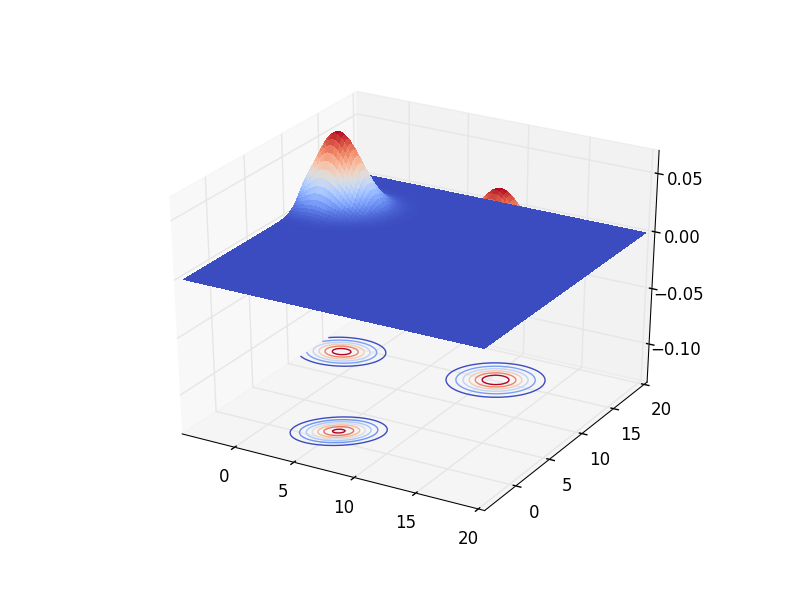
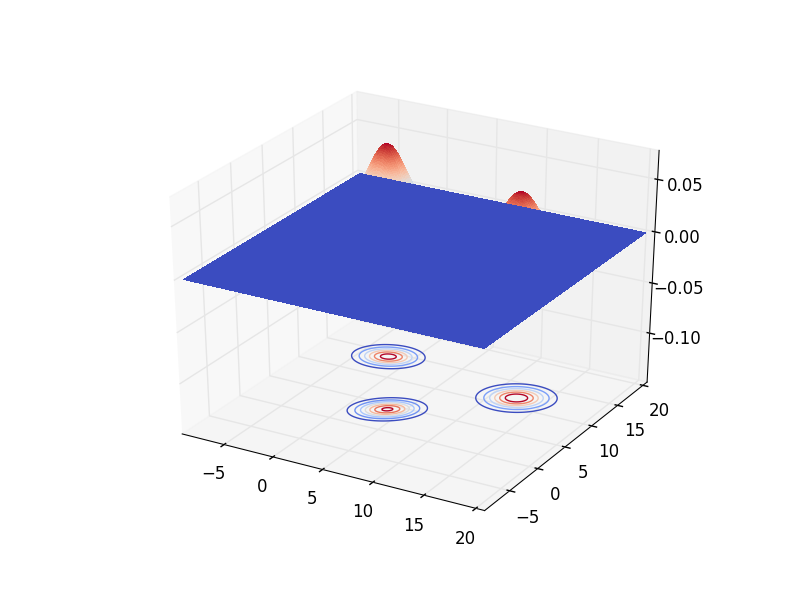
Latest working code

diff --git a/assignment-2/ls/scripts/plot_pdf.py b/assignment-2/ls/scripts/plot_pdf.py
@@ -6,46 +6,34 @@ import numpy as np
 from scipy.stats import multivariate_normal
 
 def plotPDF(mus, covs, plot):
-    xmin = int(min([mus[label][0] for label in [0, 1, 2]]))
-    xmax = int(max([mus[label][0] for label in [0, 1, 2]]))
-    ymin = int(min([mus[label][1] for label in [0, 1, 2]]))
-    ymax = int(max([mus[label][1] for label in [0, 1, 2]]))
-    '''
-    # Generate the underlying x-y grid
-    x, y = np.mgrid[int(mu[0]) - 5 : int(mu[0]) + 5:100j, int(mu[1]) - 5 : int(mu[1]) + 5 : 500j]
-    # Generate tuples (x, y) : X x Y
-    xy = np.column_stack([x.flat, y.flat])
-    '''
-    # Generate the underlying x-y grid
-    x, y = np.mgrid[ymin - 7 : ymax + 7 : 100j, ymin - 7 : ymax + 7 : 100j]
-    # Generate tuples (x, y) : X x Y
-    xy = np.column_stack([x.flat, y.flat])
-    base = np.zeros_like(x)
-    # Base plot 
     fig = plt.figure(1)
     ax = fig.gca(projection = '3d')
-    ax.plot_surface(x, y, base, rstride = 1, cstride = 1, cmap=cm.coolwarm, linewidth = 0, antialiased=False)
 
+    # Compute the gaussian for each class
+    xs, ys, zs = [], [], []
     for label in [0, 1, 2]:
         mu, cov = mus[label], covs[label]
+        x, y = np.mgrid[mu[0] - 5 : mu[0] + 5 : 100j, mu[1] - 5 : mu[1] + 5 : 100j]
+        xy = np.column_stack([x.flat, y.flat])
         # Compute the gaussian on this grid with mean = mu, covariance = cov
         z = multivariate_normal.pdf(xy, mean = mu, cov = cov)
         # Reshape the points to fall in line with x,y 
         z = z.reshape(x.shape)
-        # Contour placement
-        z_min, z_max = np.min(z), np.max(z)
-        z_range = z_max - z_min
-        contour_location = z_min - 2 * z_range
+        # Populate Gaussians : zs
+        xs.append(x)
+        ys.append(y)
+        zs.append(z)
+    
+    zmin, zmax = np.min(np.array(zs)), np.max(np.array(zs))
+    contour_location = zmin - 2 * (zmax - zmin)
+    ax.set_zlim3d(contour_location, zmax)
 
-        # Plot the pdf and the contours
-        plt.figure(1)
-        ax.set_zlim3d(contour_location, z_max)
-        #ax.plot_surface(x, y, z, rstride = 8, cstride = 8, alpha = 0.25)
+    # Plot the pdf and the contours
+    for label in [0, 1, 2]:
         # Surface plot
-        ax.plot_surface(x, y, z, rstride = 1, cstride = 1, cmap=cm.coolwarm, linewidth = 0, antialiased=False)
-        #ax.plot_surface(x, y, z, rstride = 1, cstride = 1, color = 'blue', linewidth = 0, antialiased=False)
+        ax.plot_surface(xs[label], ys[label], zs[label], rstride = 1, cstride = 1, cmap=cm.coolwarm, linewidth = 0, antialiased=False, zorder = 1)
         # Contour plot 
-        ax.contour(x, y, z, zdir = 'z', offset = contour_location, cmap = cm.coolwarm)
+        ax.contour(xs[label], ys[label], zs[label], zdir = 'z', offset = contour_location, cmap = cm.coolwarm)
 
         # Plot the directions
         '''
@@ -60,6 +48,14 @@ def plotPDF(mus, covs, plot):
     plt.savefig(plot)
 
 if __name__ == '__main__':
-    plotPDF(np.array([1.0, 2.0]), np.array([[1, 0.6], [0.6, 1]]))
+    plotPDF([np.array([1.0, 2.0]),\
+             np.array([5.0, 7.0]),\
+             np.array([-1.0, 11.0])],\
+                
+            [np.array([[1, 0.6], [0.6, 1]]),\
+             np.array([[1.5, 0.3], [0.3, 1.5]]),\
+             np.array([[1.2, 0], [0, 1.2]])],\
+
+            'plots/pdf.jpg')
     plt.show()
 

diff --git a/assignment-2/ls/scripts/plot_pdf_mayavi.py b/assignment-2/ls/scripts/plot_pdf_mayavi.py
@@ -1,0 +1,59 @@
+import mayavi.mlab as mlab
+
+import numpy as np
+from scipy.stats import multivariate_normal
+
+def plotPDF(mus, covs, plot):
+    gmin, gmax = np.min(np.array(mus)), np.max(np.array(mus))
+    # Generate the underlying x-y grid
+    x, y = np.mgrid[gmin - 7 : gmax + 7 : 100j, gmin - 7 : gmax + 7 : 100j]
+    # Generate tuples (x, y) : X x Y
+    xy = np.column_stack([x.flat, y.flat])
+    # Base plot 
+    base = np.zeros_like(x)
+    #mlab.surf(x, y, base)
+
+    # Compute the gaussian for each class
+    zs = []
+    for label in [0, 1, 2]:
+        mu, cov = mus[label], covs[label]
+        # Compute the gaussian on this grid with mean = mu, covariance = cov
+        z = multivariate_normal.pdf(xy, mean = mu, cov = cov)
+        # Reshape the points to fall in line with x,y 
+        z = z.reshape(x.shape)
+        # Populate Gaussians : zs
+        zs.append(z)
+    
+    zmin, zmax = np.min(np.array(zs)), np.max(np.array(zs))
+    contour_location = zmin - 2 * (zmax - zmin)
+    extent = [gmin, gmax, gmin, gmax, zmin, zmax]
+    # Plot the pdf and the contours
+    for label in [0, 1, 2]:
+        # Surface plot
+        mlab.surf(x, y, zs[label], warp_scale = 'auto')
+        # Contour plot 
+        mlab.contour_surf(zs[label])
+
+    mlab.show()
+
+    # Plot the directions
+    '''
+    _, eigvec = np.linalg.eig(cov)
+    eig_extent = np.max(x)
+    direction_1 = mu + eig_extent * eigvec[:, 0]
+    direction_2 = mu + eig_extent * eigvec[:, 1]
+    plt.plot([mu[0], direction_1[0]], [mu[1], direction_1[1]], zs = contour_location, zdir = 'z', color = 'black')
+    plt.plot([mu[0], direction_2[0]], [mu[1], direction_2[1]], zs = contour_location, zdir = 'z', color = 'black')
+    '''
+
+if __name__ == '__main__':
+    plotPDF([np.array([1.0, 2.0]),\
+             np.array([5.0, 7.0]),\
+             np.array([-1.0, 11.0])],\
+                
+            [np.array([[1, 0.6], [0.6, 1]]),\
+             np.array([[1.5, 0.3], [0.3, 1.5]]),\
+             np.array([[1.2, 0], [0, 1.2]])],\
+
+            'plots/pdf.jpg')
+    mlab.show()
